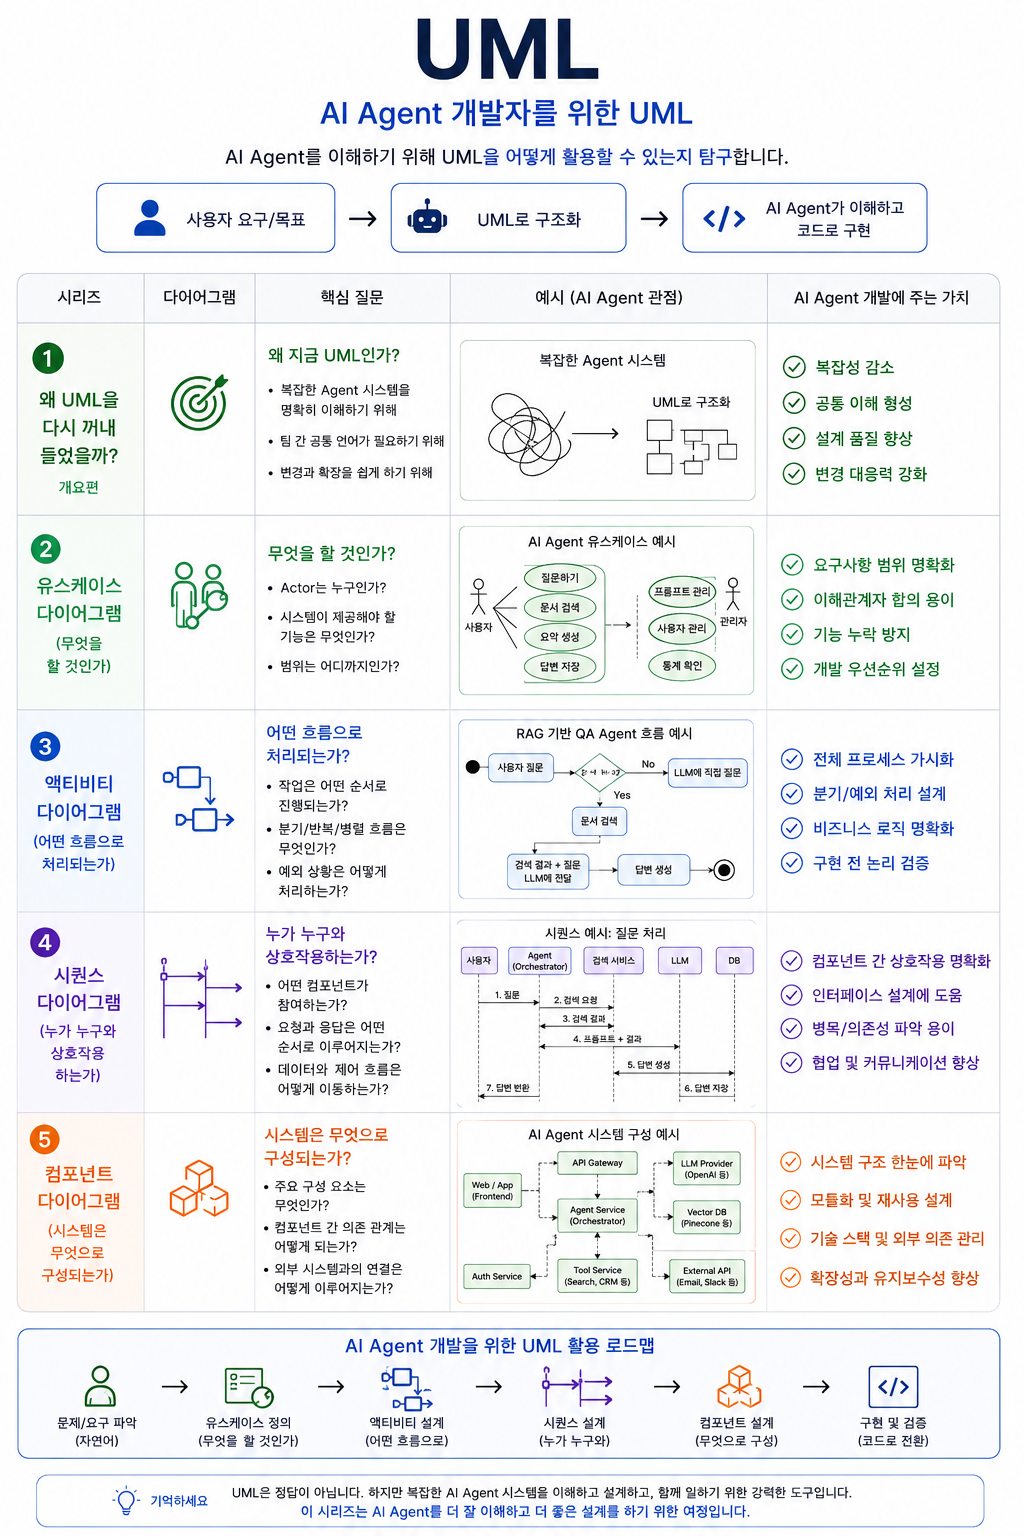
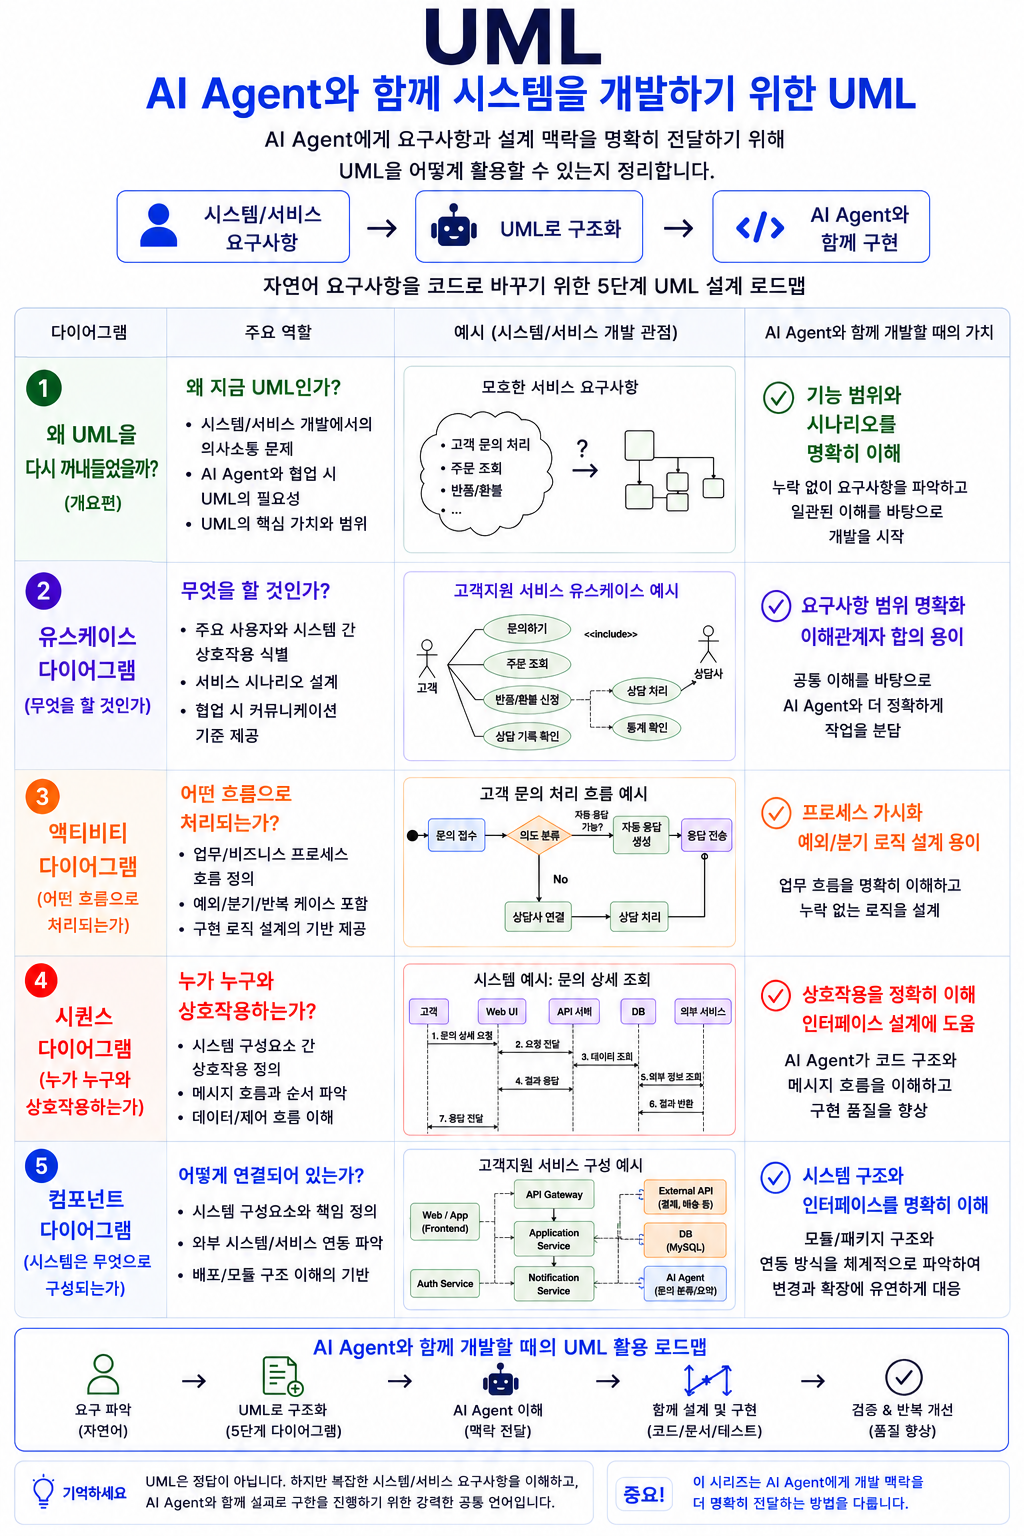
Refine UML series intro assets

Changed region(s): [[0.0, 0.0, 1.0, 1.0], [0.9688, 0.875, 1.0, 0.9375], [0.0, 0.875, 0.0312, 0.9375]]

diff --git a/content/posts/cs/uml-use-case-for-ai-agent.md b/content/posts/cs/uml-use-case-for-ai-agent.md
@@ -29,11 +29,11 @@ _written by Codex, ChatGPT_
 
 ## 왜 유스케이스부터 보는가
 
-AI Agent와 함께하는 개발은 종종 한 문장에서 시작한다.
+고객지원 서비스를 만든다고 하면 먼저 기능 목록부터 쓰고 싶어진다.
 
 > 고객 문의를 접수하고 답변을 관리하는 고객지원 서비스를 만들어줘.
 
-문장만 보면 단순하다. 하지만 바로 구현하려고 하면 질문이 쏟아진다.
+하지만 기능 목록으로 바로 내려가면 금방 막힌다. 구현 전에 먼저 정리해야 할 질문이 있기 때문이다.
 
 - 고객은 무엇을 입력할 수 있는가?
 - 시스템은 언제 바로 답변을 보여주고, 언제 추가 정보를 요청해야 하는가?
